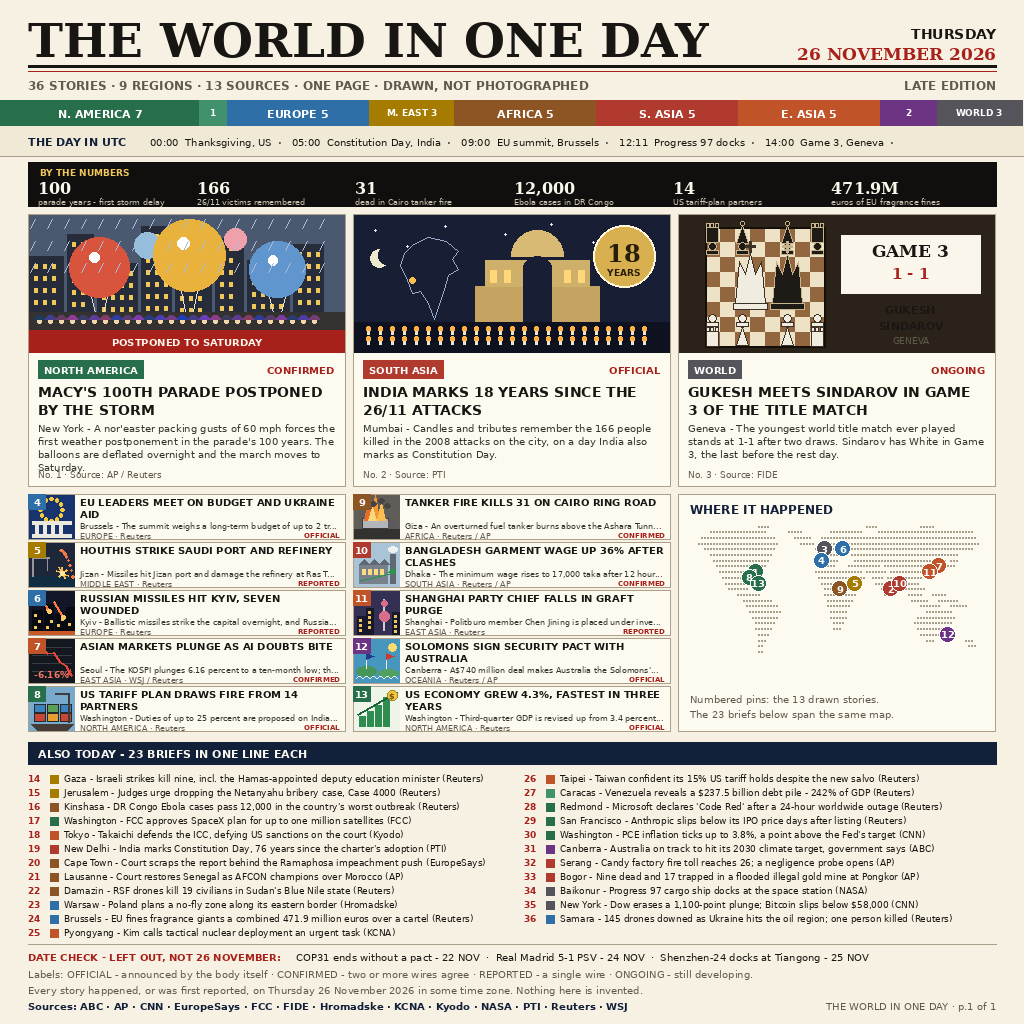
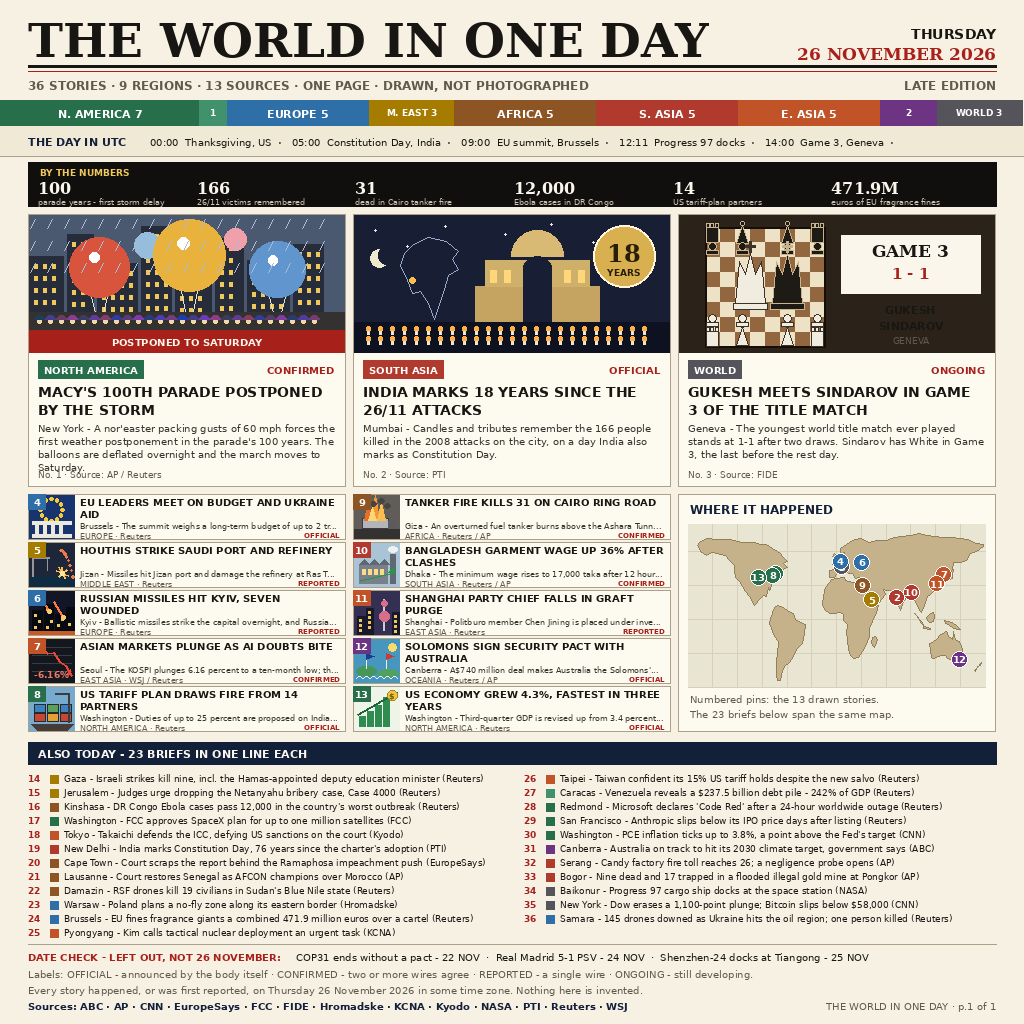
Real polygon world map

Changed region(s): [[0.6562, 0.5, 0.9688, 0.6875]]

diff --git a/compose2.py b/compose2.py
@@ -195,56 +195,89 @@ for _s in LEADS + ROWS:
 for _s in BRIEFS:
     SOURCES.add(_s[3].strip())
 
-# Dot-matrix world map, 100 x 30, built from land segments per row so the
-# continents stay recognisable: {row: [(x_start, x_end), ...]}, north first.
-LAND_SEGMENTS = {
-    0: [(24, 27), (60, 63), (78, 82)],
-    1: [(8, 26), (34, 38), (48, 58), (64, 95)],
-    2: [(5, 29), (36, 41), (45, 96)],
-    3: [(4, 30), (38, 42), (44, 50), (52, 97)],
-    4: [(6, 29), (43, 52), (54, 95)],
-    5: [(8, 28), (44, 51), (55, 90)],
-    6: [(9, 27), (45, 50), (56, 86), (88, 90)],
-    7: [(10, 26), (44, 49), (54, 64), (66, 84), (87, 89)],
-    8: [(11, 25), (43, 58), (60, 66), (68, 82)],
-    9: [(12, 24), (44, 59), (62, 65), (67, 78)],
-    10: [(13, 22), (45, 58), (63, 70), (72, 77)],
-    11: [(14, 20), (46, 57), (65, 69), (73, 79)],
-    12: [(17, 24), (46, 56), (66, 68), (74, 78), (82, 86)],
-    13: [(19, 28), (47, 55), (75, 80), (84, 90)],
-    14: [(20, 30), (47, 54), (78, 84), (88, 93)],
-    15: [(21, 31), (48, 53), (80, 88)],
-    16: [(22, 30), (48, 53), (77, 89)],
-    17: [(23, 29), (49, 52), (76, 88)],
-    18: [(23, 28), (49, 51), (77, 86)],
-    19: [(24, 27), (78, 84)],
-    20: [(24, 26), (80, 82), (93, 95)],
-    21: [(24, 25), (94, 96)],
-    22: [(24, 25)],
-}
-LAND = []
-for _ry in range(30):
-    _cells = [" "] * 100
-    for _x0, _x1 in LAND_SEGMENTS.get(_ry, []):
-        for _x in range(_x0, _x1 + 1):
-            _cells[_x] = "#"
-    LAND.append("".join(_cells))
+# World map as filled continent polygons in (lon, lat) coordinates,
+# projected equirectangularly into the map box. Coarse but true shapes:
+# the Americas, Africa, Eurasia as one landmass, the big islands and
+# Australia - far more recognisable than a dot grid at this size.
+POLYS = [
+    # North and Central America
+    [(-165, 60), (-158, 56), (-150, 59), (-135, 56), (-130, 52), (-124, 47),
+     (-124, 42), (-122, 37), (-117, 33), (-114, 29), (-110, 24), (-105, 20),
+     (-99, 12), (-97, 14), (-95, 16), (-91, 19), (-88, 21), (-85, 20),
+     (-83, 28), (-81, 25), (-80, 27), (-77, 32), (-74, 35), (-76, 39),
+     (-70, 42), (-66, 44), (-60, 46), (-64, 49), (-59, 51), (-65, 55),
+     (-68, 58), (-78, 62), (-85, 66), (-92, 66), (-100, 68), (-115, 68),
+     (-130, 70), (-145, 70), (-158, 71), (-166, 68), (-168, 65)],
+    # South America
+    [(-78, 7), (-75, 10), (-72, 12), (-64, 10), (-60, 8), (-52, 5),
+     (-50, 0), (-44, -3), (-38, -5), (-39, -13), (-41, -22), (-48, -27),
+     (-52, -33), (-57, -38), (-62, -41), (-65, -45), (-67, -50),
+     (-68, -54), (-71, -54), (-73, -50), (-73, -44), (-73, -37),
+     (-71, -30), (-70, -20), (-75, -15), (-79, -8), (-81, -4), (-80, 1),
+     (-77, 4)],
+    # Africa
+    [(-6, 35), (0, 36), (10, 37), (11, 34), (20, 32), (30, 31), (32, 31),
+     (34, 28), (35, 24), (38, 21), (40, 15), (43, 12), (48, 11), (51, 12),
+     (48, 5), (44, -2), (40, -8), (40, -15), (38, -20), (35, -24),
+     (32, -29), (27, -34), (20, -35), (17, -32), (15, -27), (13, -18),
+     (12, -12), (13, -5), (9, -1), (9, 4), (4, 6), (-2, 5), (-8, 5),
+     (-13, 8), (-17, 12), (-17, 15), (-16, 20), (-15, 25), (-13, 28),
+     (-10, 31)],
+    # Madagascar
+    [(44, -16), (47, -15), (50, -18), (48, -22), (46, -25), (44, -23),
+     (43, -20)],
+    # Eurasia: Iberia and Scandinavia round the top, Siberia across,
+    # Arabia, India and Indochina down the south, China to the Pacific.
+    [(-9, 37), (-9, 43), (-2, 44), (-1, 46), (-5, 48), (-2, 50), (3, 53),
+     (7, 54), (8, 57), (10, 59), (6, 58), (5, 60), (5, 62), (8, 64),
+     (12, 66), (16, 68), (22, 70), (30, 71), (40, 68), (50, 69), (60, 69),
+     (70, 72), (80, 73), (90, 74), (100, 76), (110, 74), (120, 73),
+     (130, 72), (140, 72), (150, 71), (160, 70), (170, 67), (178, 66),
+     (178, 64), (170, 60), (162, 58), (158, 52), (150, 50), (142, 50),
+     (140, 44), (135, 40), (130, 38), (127, 40), (122, 38), (120, 35),
+     (122, 31), (120, 27), (115, 23), (110, 20), (108, 15), (106, 9),
+     (103, 6), (100, 8), (98, 12), (95, 16), (92, 16), (89, 22), (86, 20),
+     (82, 16), (80, 13), (77, 8), (75, 12), (72, 18), (70, 22), (66, 25),
+     (61, 25), (57, 26), (59, 22), (55, 17), (52, 15), (45, 12), (43, 12),
+     (42, 15), (39, 20), (35, 24), (34, 28), (36, 36), (30, 36), (27, 37),
+     (23, 36), (19, 40), (15, 40), (12, 42), (10, 44), (7, 44), (3, 42),
+     (0, 39), (-2, 37)],
+    # Britain
+    [(-5, 50), (-3, 53), (-5, 55), (-3, 58), (-1, 57), (0, 53), (1, 51)],
+    # Japan
+    [(130, 31), (133, 34), (137, 35), (140, 36), (141, 40), (142, 44),
+     (140, 45), (138, 38), (135, 34), (131, 32)],
+    # Indonesia and New Guinea
+    [(95, 5), (100, 0), (104, -3), (106, -6), (103, -4), (99, 1)],
+    [(106, -6), (110, -7), (114, -8), (114, -9), (106, -8)],
+    [(109, 1), (113, 4), (117, 6), (119, 2), (117, -2), (113, -3), (110, -1)],
+    [(131, -1), (136, -2), (141, -3), (146, -6), (150, -9), (147, -9),
+     (142, -8), (137, -6), (132, -4)],
+    # Australia and New Zealand
+    [(113, -22), (114, -28), (115, -34), (118, -35), (124, -33), (129, -32),
+     (132, -32), (135, -35), (138, -36), (140, -38), (145, -38), (150, -37),
+     (153, -31), (153, -27), (151, -24), (149, -20), (146, -19), (143, -15),
+     (142, -11), (142, -14), (140, -18), (136, -15), (135, -12), (132, -11),
+     (130, -13), (126, -14), (122, -17), (118, -20)],
+    [(167, -45), (170, -44), (172, -42), (174, -39), (176, -38), (174, -41),
+     (171, -42), (168, -46)],
+]
 
-# pin positions (grid x, y) for the 13 drawn stories, in story order
-PINS = [
-    (23, 8),   # 1 New York - parade
-    (68, 11),  # 2 Mumbai - 26/11 anniversary
-    (46, 4),   # 3 Geneva - chess Game 3
-    (45, 6),   # 4 Brussels - EU summit
-    (56, 10),  # 5 Jizan - Houthi strike
-    (52, 4),   # 6 Kyiv - missiles
-    (84, 7),   # 7 Seoul - markets plunge
-    (21, 9),   # 8 Washington - tariff plan
-    (51, 11),  # 9 Giza - tanker fire
-    (71, 10),  # 10 Dhaka - garment wage
-    (81, 8),   # 11 Shanghai - graft purge
-    (87, 19),  # 12 Canberra - Solomons pact
-    (24, 10),  # 13 Washington - GDP
+# pin positions (lon, lat) for the 13 drawn stories, in story order
+PIN_LONLAT = [
+    (-74.0, 40.7),    # 1 New York - parade
+    (72.9, 19.1),     # 2 Mumbai - 26/11 anniversary
+    (6.1, 46.2),      # 3 Geneva - chess Game 3
+    (4.4, 50.9),      # 4 Brussels - EU summit
+    (42.7, 16.9),     # 5 Jizan - Houthi strike
+    (30.5, 50.4),     # 6 Kyiv - missiles
+    (130.0, 39.5),    # 7 Seoul - markets plunge (offset NE so it clears pin 11)
+    (-77.0, 38.9),    # 8 Washington - tariff plan
+    (31.2, 30.0),     # 9 Giza - tanker fire
+    (90.4, 23.8),     # 10 Dhaka - garment wage
+    (121.5, 31.2),    # 11 Shanghai - graft purge
+    (149.1, -35.3),   # 12 Canberra - Solomons pact
+    (-95.0, 37.0),    # 13 Washington - GDP (offset to the US heartland, clears pin 1)
 ]
 
 # --- fonts -------------------------------------------------------------------
@@ -651,17 +684,24 @@ def draw_story_card(d, x0, y, cw, n, row):
 def draw_map(d, x0, y0, x1, y1):
     d.rectangle([x0, y0, x1, y1], fill=CARD, outline=RULE, width=1)
     d.text((x0 + 12, y0 + 8), "WHERE IT HAPPENED", font=bold(12), fill=NAVY)
-    gx, gy = x0 + 8, y0 + 32
-    cell = (x1 - x0 - 16) / 100
-    vstep = 5.7
-    dot = max(1, round(cell * 0.42))
-    for ry, row in enumerate(LAND):
-        for rx, ch in enumerate(row):
-            if ch == "#":
-                cx, cy = gx + rx * cell, gy + ry * vstep
-                d.ellipse([cx, cy, cx + dot, cy + dot], fill=(168, 160, 140))
-    for i, (px, py) in enumerate(PINS):
-        cx, cy = gx + px * cell, gy + py * vstep
+    mx0, my0, mx1, my1 = x0 + 10, y0 + 30, x1 - 10, y1 - 44
+    d.rectangle([mx0, my0, mx1, my1], fill=(233, 229, 211))
+    # faint graticule every 30 degrees
+    for lon in range(-150, 180, 30):
+        gx = mx0 + (lon + 180) / 360 * (mx1 - mx0)
+        d.line([gx, my0, gx, my1], fill=(214, 208, 186), width=1)
+    for lat in range(-60, 90, 30):
+        gy = my0 + (84 - lat) / 144 * (my1 - my0)
+        d.line([mx0, gy, mx1, gy], fill=(214, 208, 186), width=1)
+
+    def proj(lon, lat):
+        return (mx0 + (lon + 180) / 360 * (mx1 - mx0),
+                my0 + (84 - lat) / 144 * (my1 - my0))
+    for poly in POLYS:
+        pts = [proj(lon, lat) for lon, lat in poly]
+        d.polygon(pts, fill=(198, 178, 138), outline=(146, 128, 90))
+    for i, (lon, lat) in enumerate(PIN_LONLAT):
+        cx, cy = proj(lon, lat)
         col = REGION_COLORS[(LEADS + ROWS)[i][0]]
         r = 8
         d.ellipse([cx - r, cy - r, cx + r, cy + r], fill=col, outline=(255, 255, 255), width=1)
